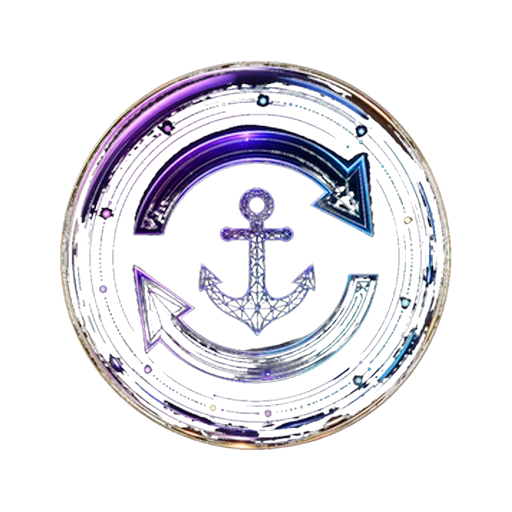
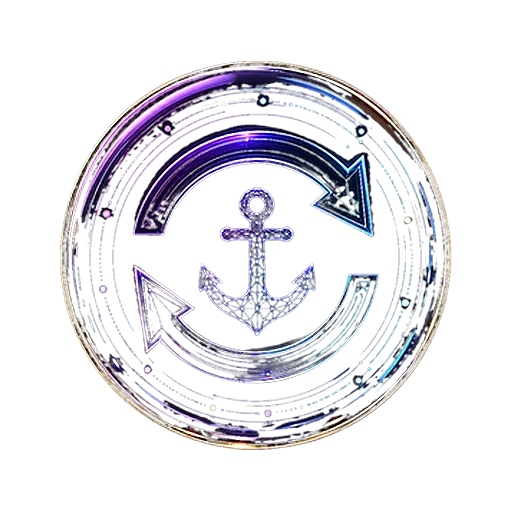
Clean unused assets, sharpen thinking WebP display for Telegram.
Remove legacy public SVGs and duplicate mode icons; post-sharpen existing thinking WebP; render icons without CSS blur filters (halo layer) for crisp WebView; bump build id for cache bust.

diff --git a/src/index.css b/src/index.css
@@ -3036,15 +3036,53 @@ body::before {
 .ai-thinking__icon-wrap {
   position: relative;
   z-index: 1;
-  width: 96px;
-  height: 96px;
+  width: 104px;
+  height: 104px;
   margin: 0 auto 0.55rem;
+  isolation: isolate;
+  contain: layout style paint;
 }
 
 .ai-thinking--compact .ai-thinking__icon-wrap {
-  width: 80px;
-  height: 80px;
+  width: 88px;
+  height: 88px;
   margin-bottom: 0.45rem;
+}
+
+.ai-thinking__icon-stage {
+  position: relative;
+  width: 100%;
+  height: 100%;
+  transform: translateZ(0);
+  will-change: transform, opacity;
+}
+
+.ai-thinking__icon-halo {
+  position: absolute;
+  inset: 8%;
+  border-radius: 50%;
+  background: radial-gradient(
+    circle at 50% 45%,
+    rgba(167, 139, 250, 0.38) 0%,
+    rgba(56, 189, 248, 0.14) 42%,
+    transparent 72%
+  );
+  filter: blur(10px);
+  opacity: 0.85;
+  pointer-events: none;
+  animation: ai-thinking-halo-pulse 2.8s ease-in-out infinite;
+}
+
+@keyframes ai-thinking-halo-pulse {
+  0%,
+  100% {
+    opacity: 0.72;
+    transform: scale(0.96);
+  }
+  50% {
+    opacity: 0.95;
+    transform: scale(1.04);
+  }
 }
 
 .ai-thinking__icon-ring {
@@ -3083,27 +3121,11 @@ body::before {
   width: 100%;
   height: 100%;
   object-fit: contain;
-  image-rendering: auto;
+  image-rendering: -webkit-optimize-contrast;
+  -webkit-font-smoothing: antialiased;
   -webkit-backface-visibility: hidden;
   backface-visibility: hidden;
-  filter:
-    drop-shadow(0 3px 10px rgba(139, 92, 246, 0.42))
-    drop-shadow(0 0 6px rgba(56, 189, 248, 0.18));
-  animation: ai-thinking-icon-breathe 2.8s ease-in-out infinite;
-}
-
-@keyframes ai-thinking-icon-breathe {
-  0%,
-  100% {
-    filter:
-      drop-shadow(0 3px 10px rgba(139, 92, 246, 0.42))
-      drop-shadow(0 0 6px rgba(56, 189, 248, 0.18));
-  }
-  50% {
-    filter:
-      drop-shadow(0 4px 14px rgba(139, 92, 246, 0.52))
-      drop-shadow(0 0 9px rgba(56, 189, 248, 0.26));
-  }
+  transform: translateZ(0);
 }
 
 .ai-thinking__eyebrow {

diff --git a/src/components/AiThinkingPanel.tsx b/src/components/AiThinkingPanel.tsx
@@ -51,25 +51,28 @@ export function AiThinkingPanel({
       <div className="ai-thinking__icon-wrap">
         <span className="ai-thinking__icon-ring" aria-hidden />
         <span className="ai-thinking__icon-ring ai-thinking__icon-ring--reverse" aria-hidden />
-        <motion.img
+        <motion.div
           key={current.id}
-          src={iconSrc}
-          alt=""
-          className="ai-thinking__icon"
-          width={96}
-          height={96}
-          decoding="async"
-          fetchPriority="high"
-          draggable={false}
-          initial={{ opacity: 0, scale: 0.82, rotate: -8 }}
-          animate={{ opacity: 1, scale: 1, rotate: 0, y: [0, -5, 0] }}
+          className="ai-thinking__icon-stage"
+          initial={{ opacity: 0 }}
+          animate={{ opacity: 1, y: [0, -4, 0] }}
           transition={{
-            opacity: { duration: 0.38 },
-            scale: { duration: 0.45, ease: [0.22, 1, 0.36, 1] },
-            rotate: { duration: 0.45, ease: [0.22, 1, 0.36, 1] },
-            y: { duration: 2.8, repeat: Infinity, ease: 'easeInOut', delay: 0.4 },
+            opacity: { duration: 0.32 },
+            y: { duration: 2.8, repeat: Infinity, ease: 'easeInOut', delay: 0.25 },
           }}
-        />
+        >
+          <span className="ai-thinking__icon-halo" aria-hidden />
+          <img
+            src={iconSrc}
+            alt=""
+            className="ai-thinking__icon"
+            width={112}
+            height={112}
+            decoding="sync"
+            fetchPriority="high"
+            draggable={false}
+          />
+        </motion.div>
       </div>
 
       <p className="ai-thinking__eyebrow">{COPY.thinking.eyebrow}</p>

diff --git a/src/lib/thinkingAssets.ts b/src/lib/thinkingAssets.ts
@@ -35,7 +35,8 @@ export function preloadThinkingImages(): void {
   thinkingPreloaded = true
   for (const url of ALL_THINKING_IMAGE_URLS) {
     const img = new Image()
-    img.decoding = 'async'
+    img.decoding = 'sync'
+    img.fetchPriority = 'high'
     img.src = url
   }
 }

diff --git a/scripts/sharpen_thinking_webp.py b/scripts/sharpen_thinking_webp.py
@@ -1,0 +1,52 @@
+#!/usr/bin/env python3
+"""Пост-обработка уже готовых thinking-*.webp: резкость без перегенерации AI."""
+from __future__ import annotations
+
+import sys
+from pathlib import Path
+
+import numpy as np
+from PIL import Image, ImageEnhance, ImageFilter
+
+ROOT = Path(__file__).resolve().parents[1]
+DIR = ROOT / "src" / "assets" / "thinking"
+WEBP_QUALITY = 96
+
+
+def enhance(im: Image.Image) -> Image.Image:
+    arr = np.array(im.convert("RGBA"), dtype=np.uint8)
+    a = arr[:, :, 3]
+    mask = a > 36
+    rgb = arr[:, :, :3].astype(np.float32)
+    lum = rgb.max(axis=2)
+    spread = (
+        np.abs(rgb[:, :, 0] - rgb[:, :, 1])
+        + np.abs(rgb[:, :, 1] - rgb[:, :, 2])
+        + np.abs(rgb[:, :, 0] - rgb[:, :, 2])
+    )
+    glow = mask & ((lum > 42) | (spread > 26))
+    rgb[glow] = np.clip(rgb[glow] * 1.06 + 4, 0, 255)
+    arr[:, :, :3] = rgb.astype(np.uint8)
+
+    out = Image.fromarray(arr, "RGBA")
+    sharp = ImageEnhance.Sharpness(out.convert("RGB")).enhance(1.28)
+    sharp = sharp.filter(ImageFilter.UnsharpMask(radius=0.9, percent=150, threshold=1))
+    sr = np.array(sharp, dtype=np.uint8)
+    arr[:, :, :3] = np.where(mask[..., None], sr, arr[:, :, :3])
+    a[a < 12] = 0
+    arr[:, :, 3] = a
+    return Image.fromarray(arr, "RGBA")
+
+
+def main() -> None:
+    files = sorted(DIR.glob("thinking-*.webp"))
+    if not files:
+        sys.exit(f"no webp in {DIR}")
+    for path in files:
+        im = enhance(Image.open(path))
+        im.save(path, "WEBP", quality=WEBP_QUALITY, method=6, lossless=False)
+        print(f"OK {path.name} {path.stat().st_size // 1024}KB", flush=True)
+
+
+if __name__ == "__main__":
+    main()

diff --git a/scripts/optimize_assets.py b/scripts/optimize_assets.py
@@ -110,8 +110,8 @@ def main() -> None:
             src_splash = Path(tmp.name)
     optimize_splash(src_splash)
     for name, side in (
-        ("icon-mode-stuck.png", 128),
-        ("icon-mode-noise.png", 128),
+        ("mode-stuck.png", 128),
+        ("mode-noise.png", 128),
         ("icon-tab-unfreeze.png", 64),
         ("icon-tab-wins.png", 64),
     ):
